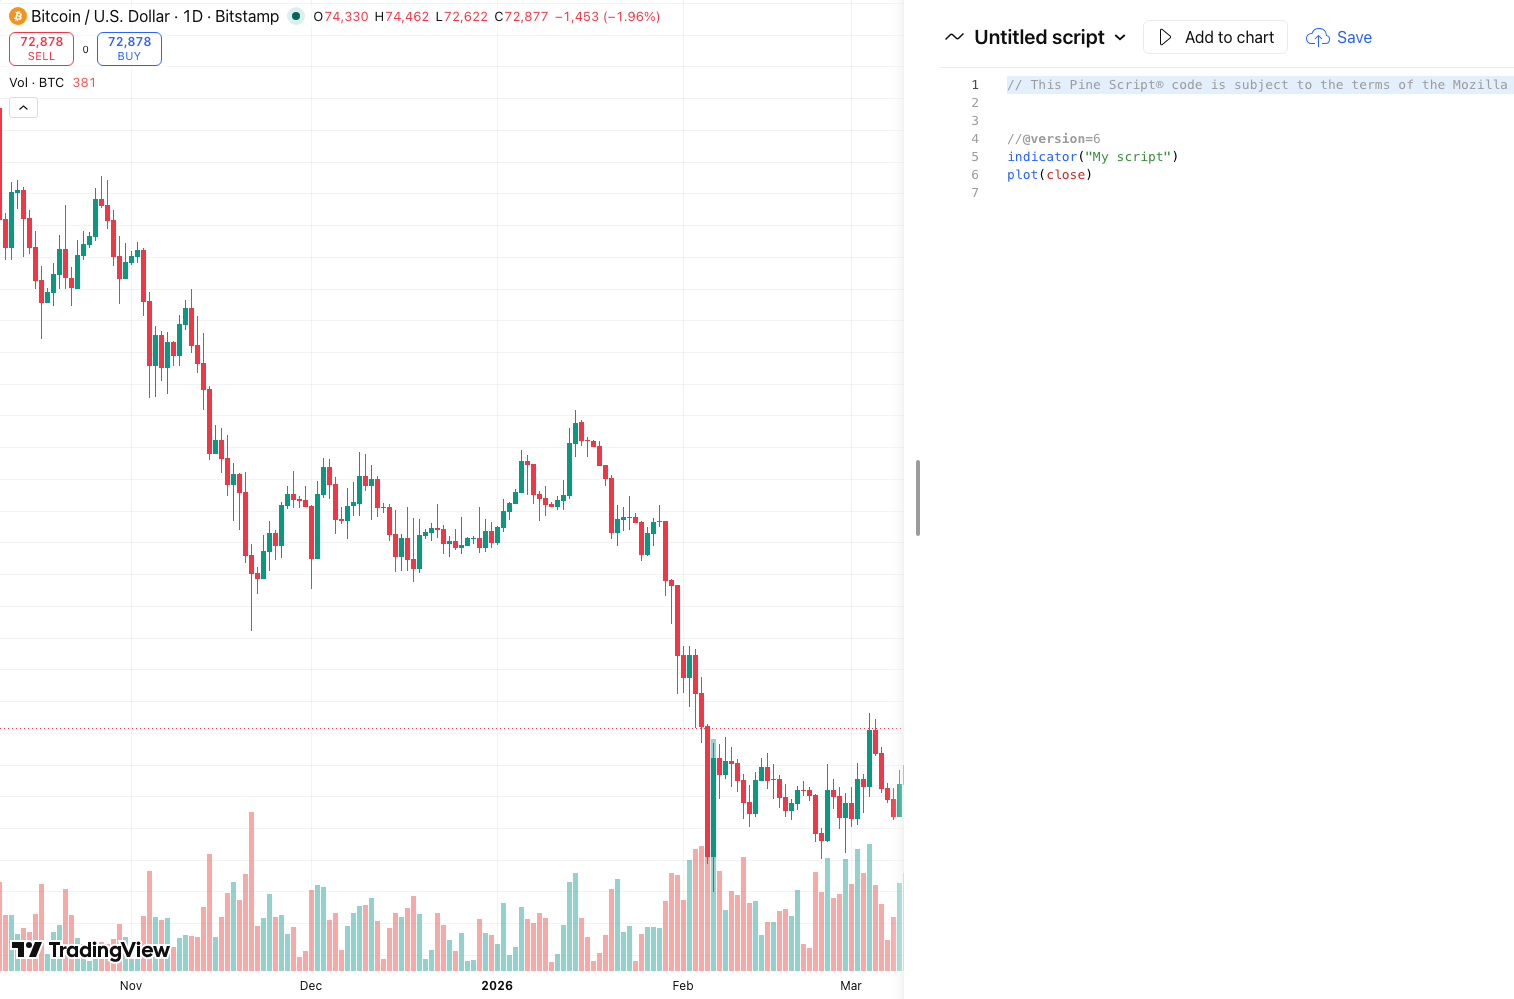
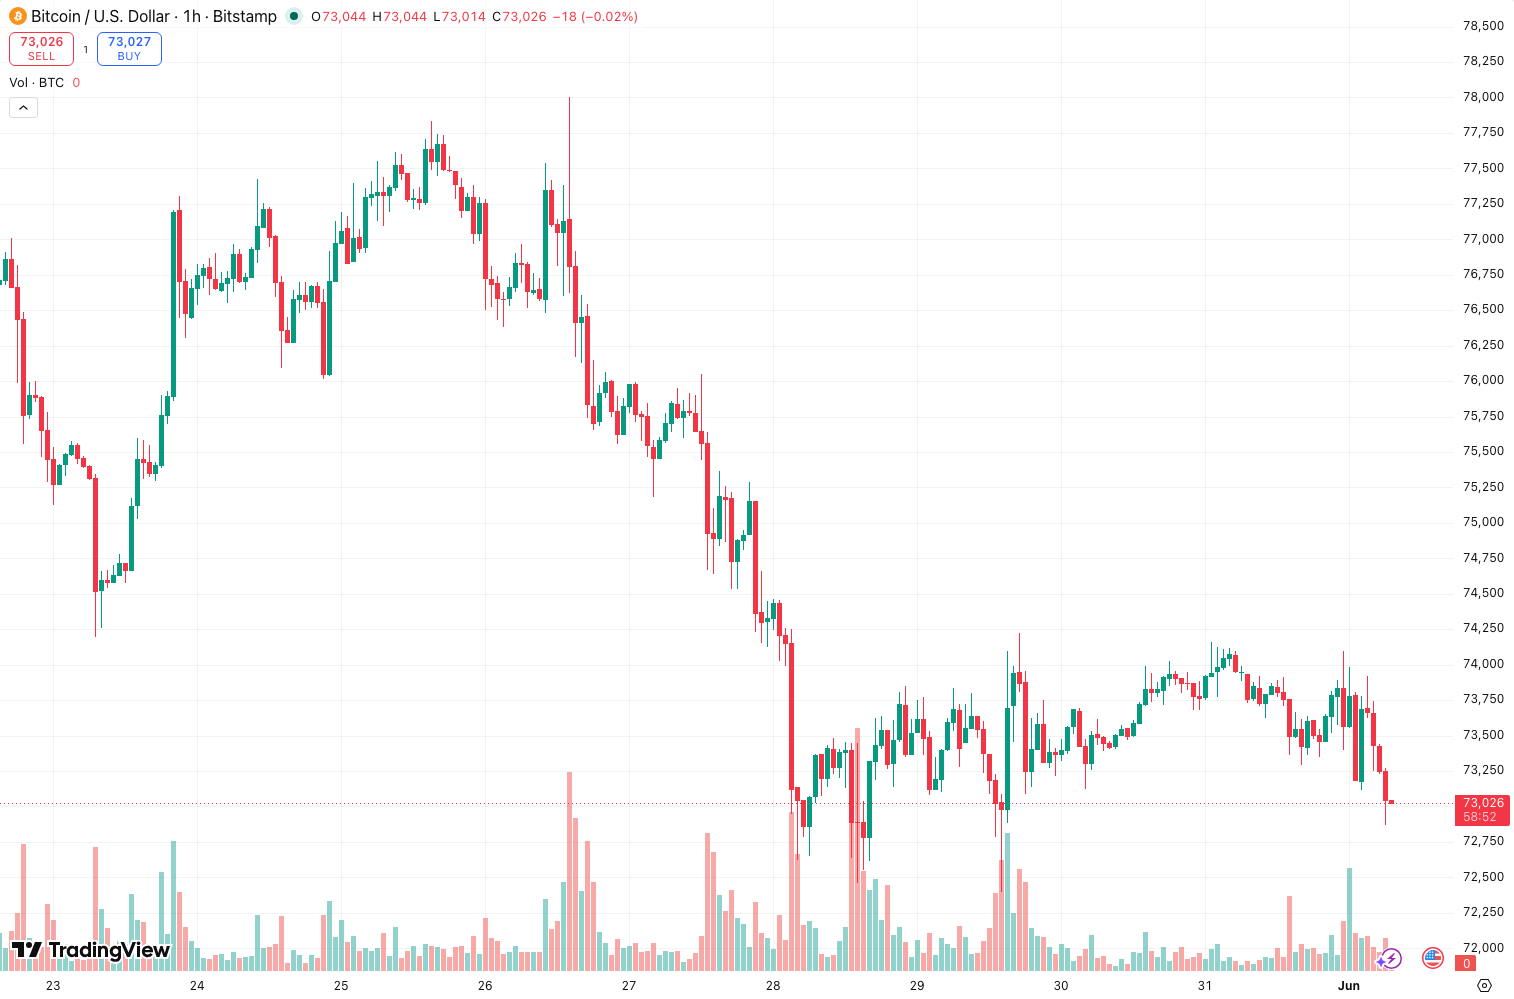
🔬 Add review: Volume_Profile_Pro

diff --git a/content/reviews/volume-profile-pro.md b/content/reviews/volume-profile-pro.md
@@ -1,0 +1,112 @@
+---
+title: "Volume_Profile_Pro Review: Settings, Strategy &amp; How to Use It"
+date: 2026-06-01
+draft: false
+type: reviews
+image: "/screenshots/volume-profile-pro.png"
+tags:
+  - volume profile pro
+  - trend
+  - tradingview
+  - indicator
+  - review
+  - trading
+categories:
+  - Trend
+  - Technical Analysis
+rating: 4
+description: "Volume_Profile_Pro TradingView indicator review: settings, strategy, and how to use it for trend trading. Expert analysis with chart examples."
+---
+
+<script type="application/ld+json">
+{
+  "@context": "https://schema.org",
+  "@type": "SoftwareApplication",
+  "name": "Volume_Profile_Pro",
+  "applicationCategory": "TradingView Indicator",
+  "operatingSystem": "TradingView",
+  "description": "Volume_Profile_Pro TradingView indicator review: settings, strategy, and how to use it for trend trading. Expert analysis with chart examples.",
+  "aggregateRating": {
+    "@type": "AggregateRating",
+    "ratingValue": "4",
+    "bestRating": "5",
+    "ratingCount": "1"
+  }
+}
+</script>
+
+# Volume_Profile_Pro Review
+
+The Volume_Profile_Pro is a trend indicator for TradingView. It helps traders identify market conditions and potential entry points with clear visual signals. Used correctly alongside volume and price action analysis, this indicator has earned its place in many traders' toolkits.
+
+![Volume_Profile_Pro TradingView indicator chart screenshot](/screenshots/volume-profile-pro.png "Volume_Profile_Pro indicator on TradingView")
+
+<!--more-->
+
+## Key Features
+
+- Identifies trend direction and strength with minimal lag
+- Automatically adapts to changing market conditions
+- Clear buy/sell signals with visual confirmation
+
+## Best Settings for Volume_Profile_Pro
+
+| Trading Style | Recommended Setting |
+|-------------|-------------------|
+| Short-term | 10-20 period |
+| Medium-term | 20-50 period |
+| Long-term | 50-200 period |
+
+## How to Use Volume_Profile_Pro
+
+1. Add to any chart — the indicator plots directly on price or in a separate pane
+1. Use crossovers or line slope changes as entry/exit signals
+1. Combine with volume analysis to confirm trend strength
+1. Use higher timeframes for trend direction, lower for entries
+
+## Pros & Cons
+
+### Pros
+    - Reduces noise compared to raw price action
+    - Clear visual signals — no complex interpretation needed
+    - Works as both a standalone tool and with other indicators
+
+### Cons
+    - All trend indicators have some inherent lag behind price
+    - Whipsaws in ranging markets — needs a volatility filter
+    - Parameter selection significantly affects signal quality
+
+## Who Is This For?
+
+- Trend followers who want automated trend detection
+- Swing traders who enter on pullbacks in established trends
+- Position traders who hold for weeks and need trend confirmation
+
+## Alternatives
+
+- Moving Average: simpler but slower
+- SuperTrend: ATR-based, adaptive
+- ADX: measures strength, not direction
+- Parabolic SAR: stops and reversals
+
+## Frequently Asked Questions
+
+### How do I know which period to use?
+
+Shorter periods (10-20) react faster but produce more false signals. Longer periods (50-200) are slower but more reliable. Match the period to your trading timeframe — 20 for day trading, 50 for swing, 200 for position.
+
+### Does it repaint?
+
+No — all signals are based on closed bars. The indicator will never change a past signal when new bars form.
+
+### Best market for this indicator?
+
+Trend indicators work best in trending markets — stocks in bull runs, trending forex pairs, crypto in established moves. Avoid in sideways/choppy conditions or use with a range filter.
+
+## Final Verdict
+
+**Rating: ⭐⭐⭐⭐ (4/5)**
+
+Solid tool. Does what it claims and does it well.
+
+[View Volume_Profile_Pro on TradingView →](https://www.tradingview.com/scripts/?search=volume%20profile%20pro)